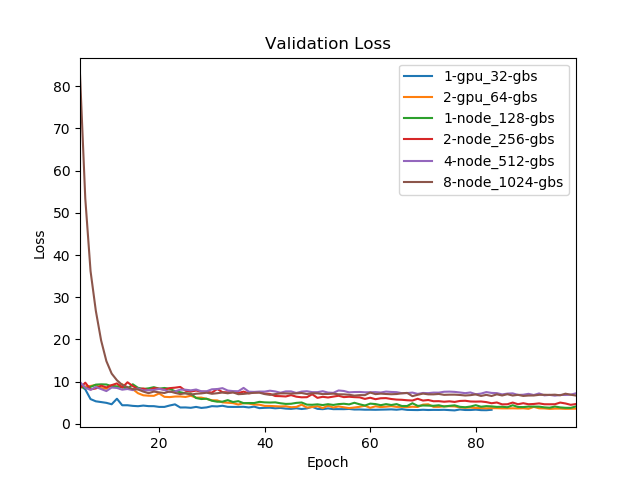
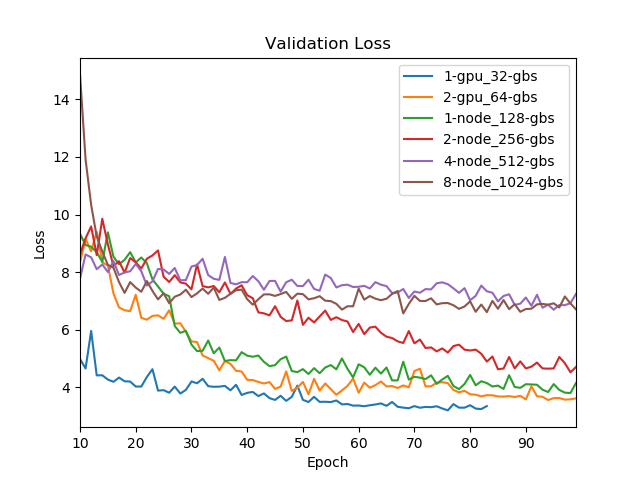
clip loss curves

diff --git a/ddp_aae_experiments/generate_loss_curves.py b/ddp_aae_experiments/generate_loss_curves.py
@@ -16,7 +16,7 @@ if __name__ == "__main__":
     csv_files = [Path(p) / "loss.json" for p in paths]
 
     # Epoch to start plotting from so the end behavior is more clearly shown
-    start_epoch = 5
+    start_epoch = 10
 
     # For testing
     # csv_files = [Path("./test.json").resolve()]
